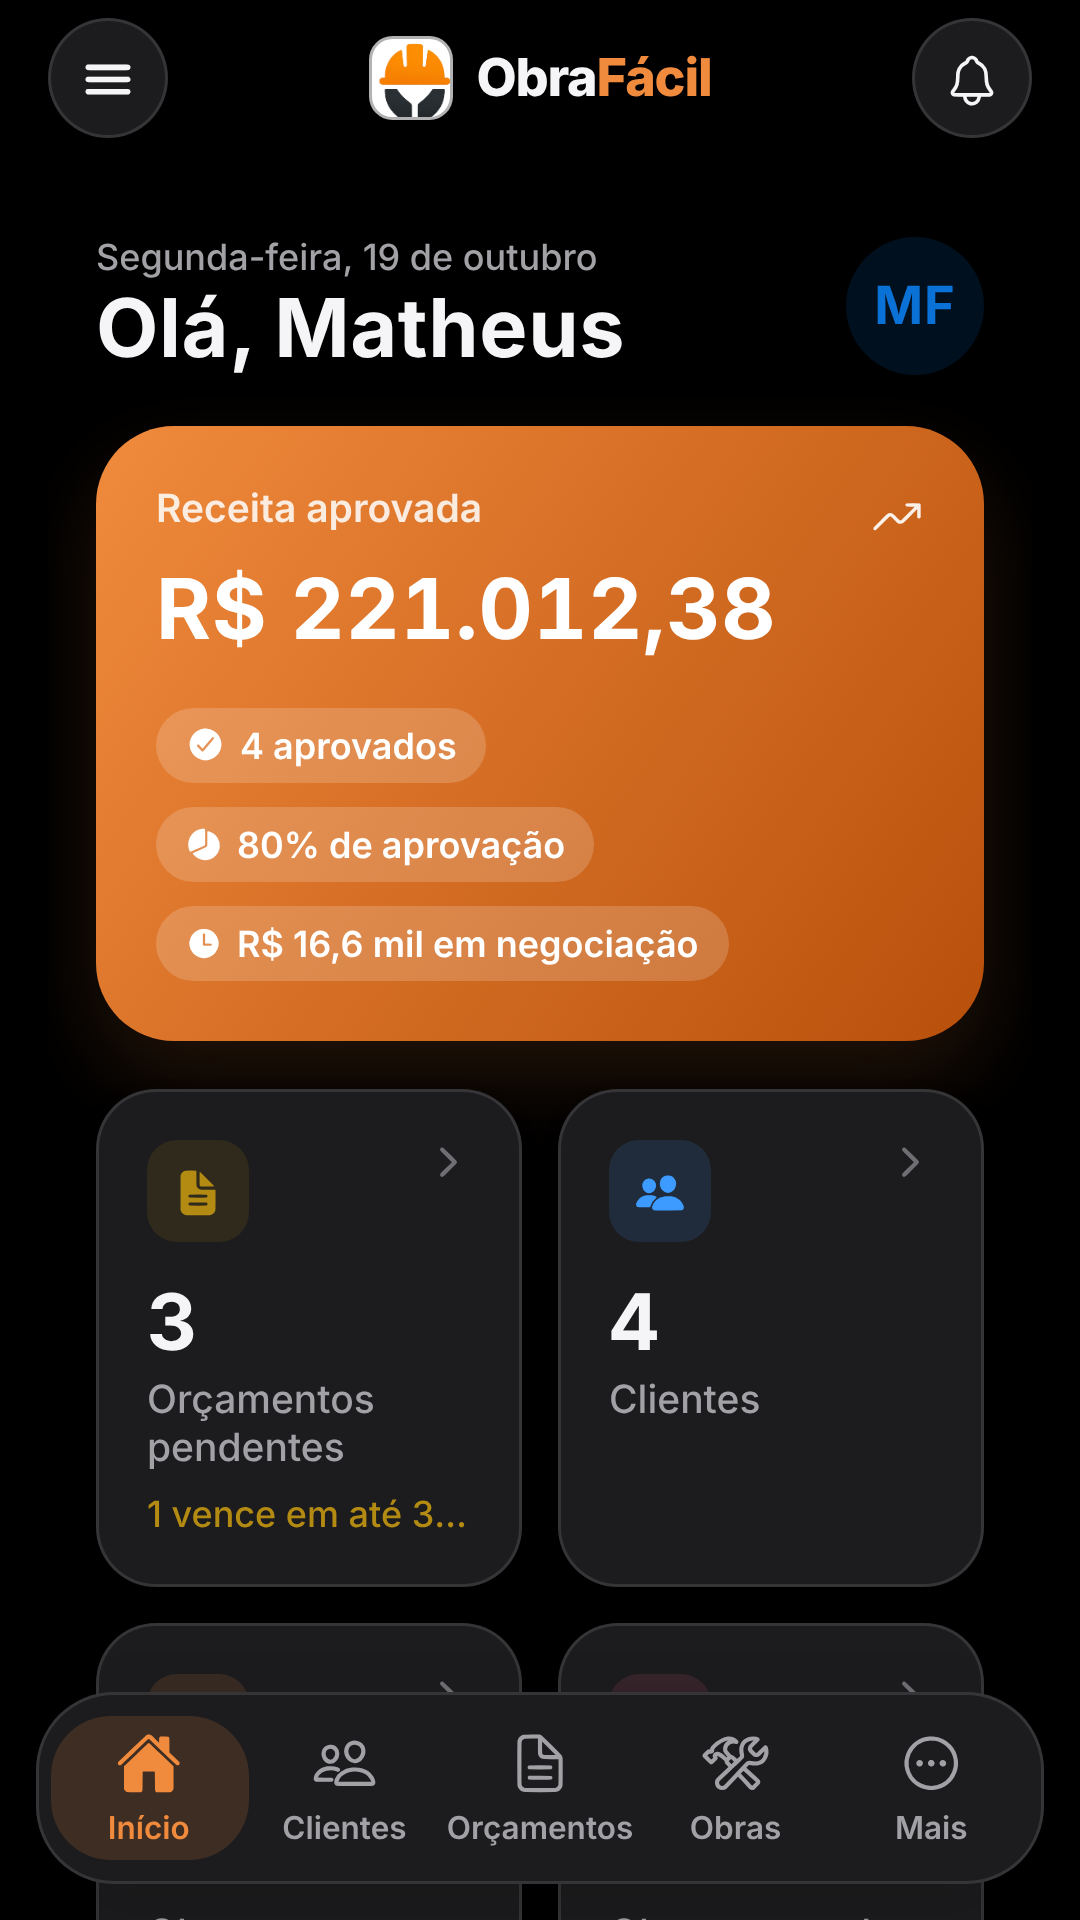
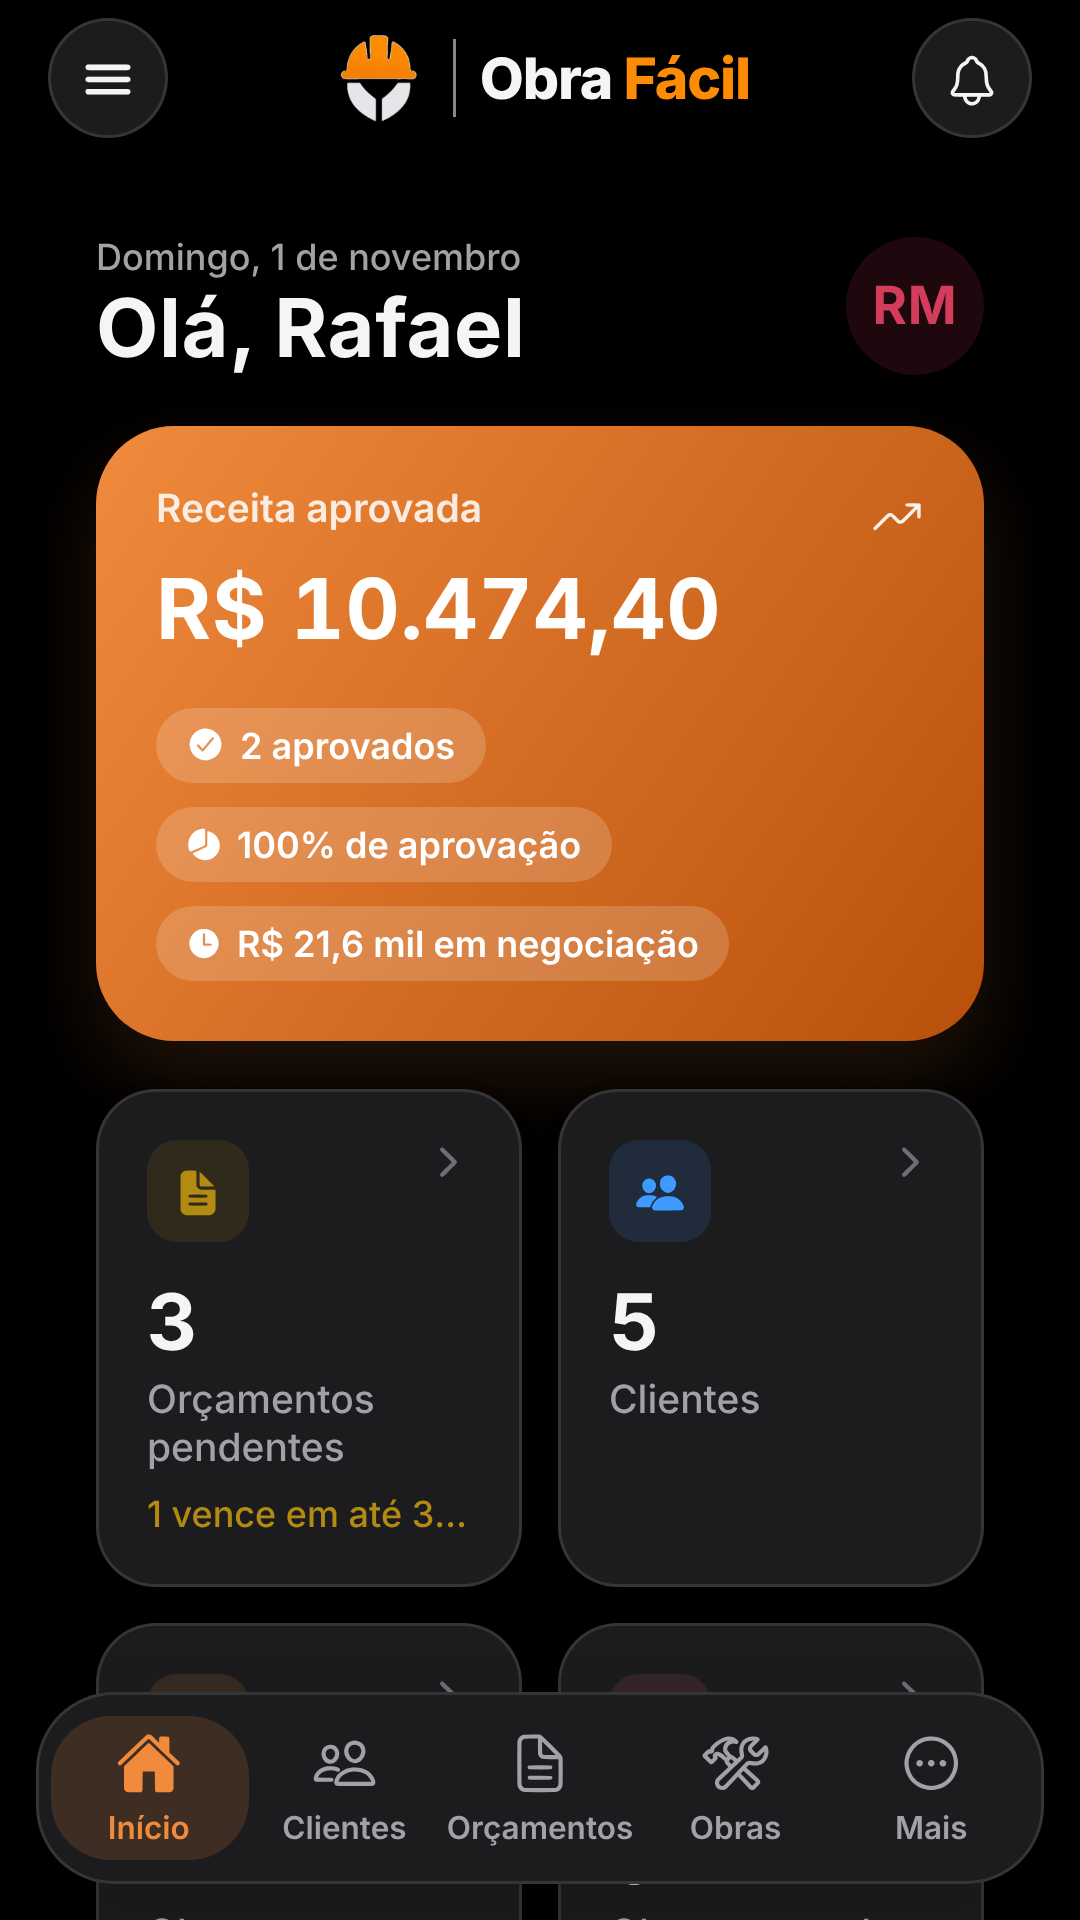
Revisão para a Google Play: política e termos sem anúncios, novas capturas e textos da loja
- Política de privacidade e termos: o app não exibe anúncios nem vende
  planos dentro do Android (versão 2026-11-01); páginas públicas regeradas.
- Capturas 1080x1920 novas (conta de demonstração, dados fictícios),
  incluindo cronograma da obra e modo escuro.
- Listagem e respostas do Play Console atualizadas (versão 1.1.0,
  permissões, conta de teste do revisor).

Claude-Session: https://claude.ai/code/session_01K9bjzM9XTKvViRw4is16ex

diff --git a/docs/privacidade.html b/docs/privacidade.html
@@ -37,7 +37,7 @@
   </nav>
   <div class="card">
     <h1>Política de Privacidade</h1>
-    <p class="muted">Última atualização: 29/10/2026</p>
+    <p class="muted">Última atualização: 01/11/2026</p>
     <p>Esta política explica como o aplicativo Obra Fácil e o site de assinatura, mantidos pela R2M, coletam, usam, compartilham e protegem dados pessoais, em conformidade com a Lei Geral de Proteção de Dados Pessoais (Lei nº 13.709/2018 — LGPD) e o Marco Civil da Internet (Lei nº 12.965/2014).</p>
     <h2>1. Quem é o responsável</h2>
     <p>O controlador dos dados da sua conta é a R2M. O encarregado pelo tratamento de dados pessoais (DPO) atende pelo e-mail obra.app.dev@gmail.com e pelo WhatsApp (31) 98676-3652, para dúvidas sobre privacidade e para o exercício dos seus direitos.</p>
@@ -52,9 +52,9 @@
     <h2>6. Biometria</h2>
     <p>O desbloqueio por digital ou reconhecimento facial é feito pelo próprio sistema do seu aparelho. O Obra Fácil não tem acesso, não coleta e não armazena nenhum dado biométrico; recebe apenas a confirmação de que o desbloqueio foi bem-sucedido.</p>
     <h2>7. Compartilhamento e transferência internacional</h2>
-    <p>Compartilhamos dados apenas com fornecedores que atuam como operadores da R2M, para as finalidades desta política: Render (hospedagem do servidor, nos Estados Unidos), MongoDB Atlas (banco de dados em nuvem), Brevo (envio de e-mails de serviço, na União Europeia) Mercado Pago (processamento das assinaturas, no Brasil) e Google (anúncios do AdMob, no aplicativo, e do AdSense, no site, exibidos apenas no plano Gratuito). Por isso, alguns dados podem ser armazenados fora do Brasil, com as garantias do art. 33 da LGPD, como cláusulas contratuais e padrões de segurança desses fornecedores. Os dados também podem ser fornecidos a autoridades quando houver obrigação legal ou ordem judicial. Documentos em PDF só são enviados a terceiros quando você mesmo os compartilha.</p>
+    <p>Compartilhamos dados apenas com fornecedores que atuam como operadores da R2M, para as finalidades desta política: Render (hospedagem do servidor, nos Estados Unidos), MongoDB Atlas (banco de dados em nuvem), Brevo (envio de e-mails de serviço, na União Europeia), e Mercado Pago (processamento das assinaturas, no Brasil). Por isso, alguns dados podem ser armazenados fora do Brasil, com as garantias do art. 33 da LGPD, como cláusulas contratuais e padrões de segurança desses fornecedores. Os dados também podem ser fornecidos a autoridades quando houver obrigação legal ou ordem judicial. Documentos em PDF só são enviados a terceiros quando você mesmo os compartilha.</p>
     <h2>8. Armazenamento no aparelho e rastreadores</h2>
-    <p>O app guarda sua sessão no armazenamento seguro do aparelho (Keychain no iOS e Keystore no Android) e algumas preferências (tema, opções de PDF e alertas) na memória local do app. O site de assinatura guarda a sessão apenas enquanto a aba estiver aberta. Não usamos cookies de publicidade, ferramentas de rastreamento de terceiros nem identificadores de anúncio. No plano Gratuito, o aplicativo e o site exibem anúncios do Google (AdMob e AdSense). Para isso, o Google pode usar o identificador de publicidade do aparelho, cookies e dados de uso para escolher e medir os anúncios, conforme a política de privacidade do Google (policies.google.com/technologies/ads). Quando a lei exigir, pedimos seu consentimento antes; você pode limitar anúncios personalizados nas configurações do Android (Google → Anúncios) ou em adssettings.google.com. Nenhum dado dos seus clientes, orçamentos ou obras é enviado aos anunciantes. Os planos pagos não exibem anúncios.</p>
+    <p>O app guarda sua sessão no armazenamento seguro do aparelho (Keychain no iOS e Keystore no Android) e algumas preferências (tema, opções de PDF e alertas) na memória local do app. O site de assinatura guarda a sessão apenas enquanto a aba estiver aberta. Não usamos cookies de publicidade, ferramentas de rastreamento de terceiros nem identificadores de anúncio. O aplicativo e o site não exibem anúncios. Se isso mudar no futuro, esta política será atualizada antes, informando o provedor de anúncios, os dados usados e como pedir ou recusar o consentimento.</p>
     <h2>9. Segurança</h2>
     <p>Adotamos medidas técnicas e administrativas para proteger os dados: comunicação criptografada (HTTPS), senhas guardadas com hash forte, sessões com validade limitada e renovação segura, separação dos dados por conta, limite de tentativas de acesso, registro das ações administrativas e acesso restrito ao painel de administração. Em caso de incidente de segurança que possa causar risco ou dano relevante, comunicaremos os titulares afetados e a Autoridade Nacional de Proteção de Dados (ANPD), conforme o art. 48 da LGPD.</p>
     <h2>10. Por quanto tempo guardamos</h2>

diff --git a/docs/termos.html b/docs/termos.html
@@ -37,7 +37,7 @@
   </nav>
   <div class="card">
     <h1>Termos de Uso</h1>
-    <p class="muted">Última atualização: 29/10/2026</p>
+    <p class="muted">Última atualização: 01/11/2026</p>
     <p>Estes termos regem o uso do aplicativo Obra Fácil e do site de assinatura, mantidos pela R2M. Ao criar uma conta ou usar o serviço, você declara que leu e concorda com eles e com a Política de Privacidade.</p>
     <h2>1. O serviço</h2>
     <p>O Obra Fácil ajuda profissionais da construção civil a organizar clientes, orçamentos, obras e um catálogo de produtos e serviços, e a gerar documentos e relatórios. O app é uma ferramenta de apoio: valores, quantitativos, prazos e informações técnicas dos orçamentos e relatórios são de responsabilidade de quem os elabora, e o app não substitui orientação técnica ou contábil profissional.</p>
@@ -46,7 +46,7 @@
     <h2>3. Uso adequado</h2>
     <p>É proibido usar o app para fins ilegais; cadastrar dados de terceiros sem autorização; tentar acessar contas, dados ou sistemas de outras pessoas; copiar, revender ou fazer engenharia reversa do serviço; ou prejudicar seu funcionamento, por exemplo com acessos automatizados abusivos.</p>
     <h2>4. Planos, preços e pagamento</h2>
-    <p>O app oferece o plano Gratuito e planos pagos (Básico e Profissional), com limites diferentes de clientes, orçamentos ativos, obras ativas e itens de catálogo, informados na tela Planos e no site de assinatura antes da contratação. As assinaturas são feitas pelo site de assinatura do Obra Fácil e cobradas mensalmente pelo Mercado Pago, com renovação automática até o cancelamento. Os preços incluem os tributos aplicáveis. O plano pago é liberado assim que o Mercado Pago confirma o pagamento. Se uma cobrança for recusada e não for regularizada no prazo de tolerância informado, a conta volta ao plano Gratuito, sem perda dos dados — apenas a criação de novos itens fica sujeita aos limites do Gratuito. O plano Gratuito exibe anúncios de terceiros (Google); os planos pagos não exibem anúncios.</p>
+    <p>O app oferece o plano Gratuito e planos pagos (Básico e Profissional), com limites diferentes de clientes, orçamentos ativos, obras ativas e itens de catálogo, informados na tela Planos e no site de assinatura antes da contratação. As assinaturas são feitas pelo site de assinatura do Obra Fácil e cobradas mensalmente pelo Mercado Pago, com renovação automática até o cancelamento. Os preços incluem os tributos aplicáveis. O plano pago é liberado assim que o Mercado Pago confirma o pagamento. Se uma cobrança for recusada e não for regularizada no prazo de tolerância informado, a conta volta ao plano Gratuito, sem perda dos dados — apenas a criação de novos itens fica sujeita aos limites do Gratuito. No aplicativo Android, a contratação de planos pagos ainda não está disponível dentro do app; quem assina pelo site tem o plano liberado automaticamente no app.</p>
     <h2>5. Cancelamento e direito de arrependimento</h2>
     <p>Você pode cancelar a assinatura a qualquer momento, no app ou no site de assinatura, sem multa: não haverá novas cobranças e o plano continua até o fim do período já pago. Na primeira contratação de um plano, você pode desistir em até 7 dias (art. 49 do Código de Defesa do Consumidor) e receber o valor pago de volta integralmente — basta cancelar e pedir o reembolso pelo e-mail obra.app.dev@gmail.com. Fora desse prazo, não há reembolso proporcional de mensalidades já pagas, pois o acesso continua até o fim do período.</p>
     <h2>6. Mudanças de preço e de planos</h2>

diff --git a/loja/play-store/formularios-play-console.md b/loja/play-store/formularios-play-console.md
@@ -1,6 +1,6 @@
 # Respostas para os formulários do Play Console
 
-Baseadas no que o app e o backend próprio (`/backend`) fazem hoje (versão 1.0.0).
+Baseadas no que o app e o backend próprio (`/backend`) fazem hoje (versão 1.1.0, revisado em 01/11/2026).
 
 ---
 
@@ -45,8 +45,8 @@ Se no futuro for adicionada ferramenta de análise/erros (ex.: Sentry), marque t
 - Violência, sexo, linguagem imprópria, drogas, jogos de azar: **Não** para todos
 - Os usuários interagem entre si / trocam conteúdo? **Não**
 - Compartilha localização? **Não**
-- Permite compras digitais? **Não** — no app Android não há compra (o checkout fica desligado no
-  painel). Se um dia a compra for liberada dentro do app, atualize para **Sim**.
+- Permite compras digitais? **Não** — no app Android não há compra (o checkout fica sempre desligado
+  no Android, no próprio código). Se um dia a compra for liberada dentro do app, atualize para **Sim**.
 
 Resultado esperado: **Classificação Livre (L)**.
 
@@ -62,8 +62,8 @@ Resultado esperado: **Classificação Livre (L)**.
 ## 4. Outras declarações
 | Pergunta | Resposta |
 |---|---|
-| Anúncios | **Não contém anúncios** |
-| Acesso ao app (para revisão) | **Todas ou algumas funcionalidades são restritas** → informe e-mail e senha de uma **conta de teste** criada para o revisor do Google |
+| Anúncios | **Não, o app não contém anúncios** (o AdMob foi removido do build; quando voltar, mude para Sim) |
+| Acesso ao app (para revisão) | **Todas ou algumas funcionalidades são restritas** → informe e-mail e senha de uma **conta de teste** criada para o revisor do Google (ex.: `obra.app.dev+revisor@gmail.com`; o código de verificação chega na caixa do obra.app.dev@gmail.com). Instruções: "Entre com o e-mail e a senha abaixo. Não é necessário código adicional." |
 | App governamental | Não |
 | Recursos financeiros (empréstimos, etc.) | Não |
 | App de saúde | Não |
@@ -75,8 +75,10 @@ Resultado esperado: **Classificação Livre (L)**.
 ## 5. Permissões declaradas no app
 | Permissão | Por quê |
 |---|---|
-| `INTERNET` | Comunicação com o servidor |
+| `INTERNET` / `ACCESS_NETWORK_STATE` | Comunicação com o servidor e aviso de sem conexão |
 | `USE_BIOMETRIC` / `USE_FINGERPRINT` | Desbloqueio com digital/rosto |
 | `VIBRATE` | Retorno tátil do sistema (adicionada pelas bibliotecas) |
+
+Nenhuma dessas é "permissão sensível" do Google Play — não há formulário extra de permissões.
 
 Câmera, microfone, localização, armazenamento e janelas sobrepostas estão **bloqueados** no `app.json`.

diff --git a/loja/play-store/README.md b/loja/play-store/README.md
@@ -11,11 +11,11 @@ Tudo o que é do frontend já está pronto no código. Este guia cobre o que é 
 ## Identidade do app (não mude depois de publicar)
 - Nome: **Obra Fácil**
 - Pacote Android: **`com.r2m.obrafacil`** (iOS: mesmo `bundleIdentifier`)
-- Versão: `expo.version` no `app.json` (1.0.0). O número de build (versionCode) é controlado pelo EAS
+- Versão: `expo.version` no `app.json` (1.1.0). O número de build (versionCode) é controlado pelo EAS
   (`appVersionSource: remote` + `autoIncrement`).
 
 ## 0. Antes de tudo
-1. **Ative o GitHub Pages** (políticas exigidas pela loja):
+1. **GitHub Pages** (políticas exigidas pela loja) — já está ativo; só confira se as páginas abrem:
    GitHub → repositório OBRA-FACIL → **Settings → Pages → Source: Deploy from a branch →
    Branch: `main` / pasta `/docs` → Save**. Em ~1 min ficam no ar:
    - https://matheus-fernando-br.github.io/OBRA-FACIL/privacidade.html
@@ -61,11 +61,11 @@ veja https://docs.expo.dev/submit/android/).
 
 ## 5. Planos e pagamento
 - Preços, limites e textos: painel administrativo (`/admin` → **Planos e cobrança**). O app lê do servidor.
-- Cobrança: **Mercado Pago** (assinatura mensal), confirmada pelo servidor via webhook.
+- Cobrança: **Mercado Pago** (cartão recorrente ou Pix/cartão mês a mês), confirmada pelo servidor via webhook.
 - **Regra da Google Play:** assinaturas vendidas *dentro* do app Android precisam do Google Play Billing
   (no Brasil, outro meio só com adesão ao programa de faturamento alternativo da Google). Por isso o
-  checkout do app Android começa **desligado**; quem quiser assinar usa a página web
-  `https://SEU-SERVICO.onrender.com/assinar`, e o plano aparece no app automaticamente.
+  checkout do app Android fica **sempre desligado** (travado no código); quem quiser assinar usa a página web
+  `https://obra-facil-api.onrender.com/assinar`, e o plano aparece no app automaticamente.
   O app não deve ter botões ou links que levem ao pagamento fora da Play Store.
 - Se no futuro quiser vender dentro do app Android: implementar o Google Play Billing (react-native-iap
   ou RevenueCat) ou aderir ao programa de faturamento alternativo, e atualizar a classificação de

diff --git a/loja/play-store/listagem.md b/loja/play-store/listagem.md
@@ -27,12 +27,14 @@ ORÇAMENTOS PROFISSIONAIS
 
 CONTROLE DE OBRAS
 • Transforme um orçamento aprovado em obra com um toque
-• Acompanhe dias previstos e reais de cada serviço
-• Progresso calculado automaticamente e status: no prazo, adiantada, atrasada ou entregue
-• Relatório de acompanhamento da obra em PDF
+• Cronograma por serviço: dia de início e de fim de cada etapa
+• Progresso calculado automaticamente e status: no prazo, atrasada ou entregue
+• Estrutura analítica e cronograma da obra em PDF
+• Relatório de acompanhamento da obra em PDF, pronto para enviar ao cliente
 
 CLIENTES
 • Cadastro com CPF/CNPJ, e-mail e telefone
+• Cadastre um cliente novo direto da tela do orçamento
 • Ligue ou chame no WhatsApp direto do app
 • Veja quantos orçamentos cada cliente tem
 
@@ -70,7 +72,6 @@ Obra Fácil — desenvolvido pela R2M.
 |---|---|
 | Ícone 512×512 | `icone-512.png` |
 | Gráfico de recursos 1024×500 | `feature-graphic-1024x500.png` |
-| Capturas de tela (1080×1920) | `01-inicio.png` … `06-relatorios.png` (+ versões `-escuro`) |
+| Capturas de tela (1080×1920, 8 no total — o máximo da loja) | `01-inicio.png`, `01-inicio-escuro.png`, `02-orcamentos.png`, `03-orcamento-detalhes.png`, `04-obras.png`, `05-obra-cronograma.png`, `06-clientes.png`, `07-relatorios.png` |
 
-> As capturas usam dados de exemplo. Antes de enviar, se quiser, gere novas no seu celular
-> com dados reais do seu uso (sem expor dados de clientes reais).
+> As capturas usam uma conta de demonstração com dados fictícios (nenhum cliente real).
